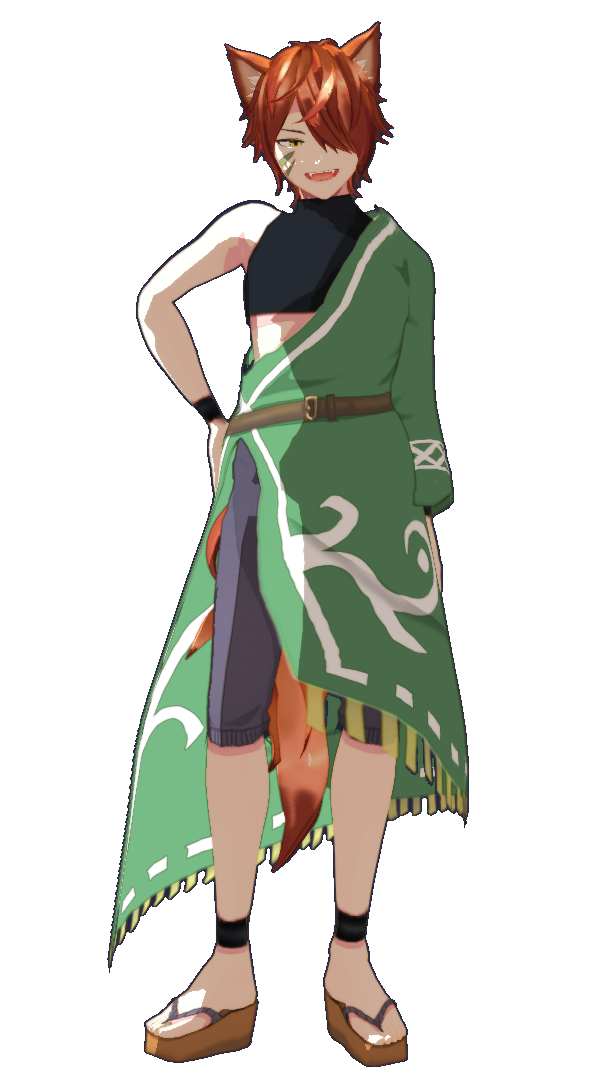
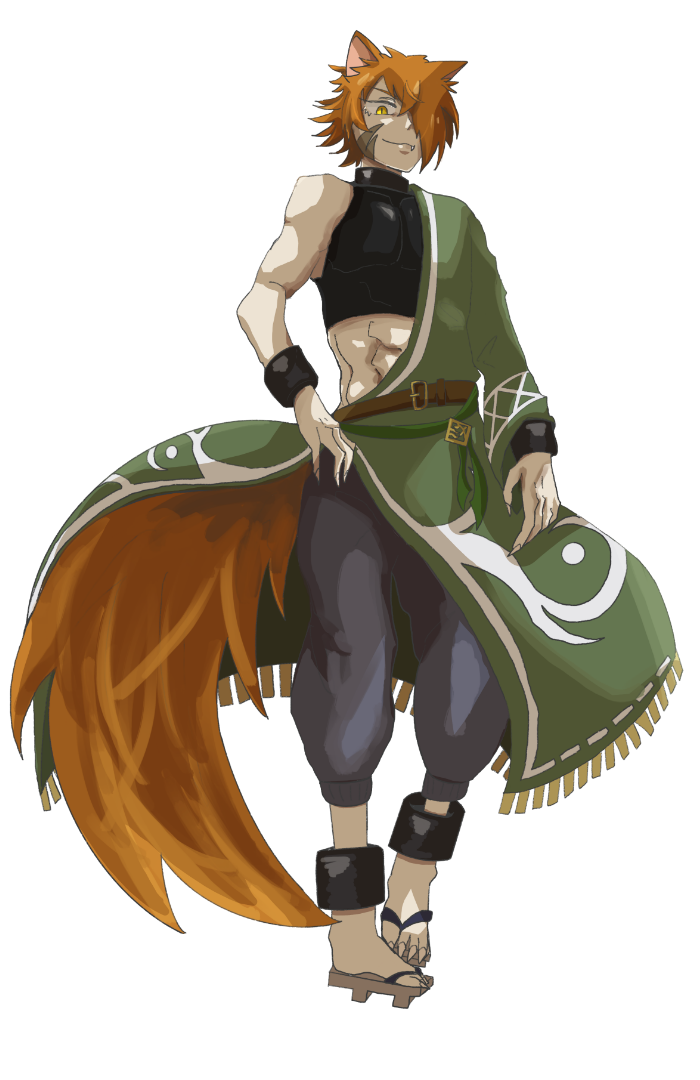
change character imgs

diff --git a/03_alf.md b/03_alf.md
@@ -4,11 +4,12 @@ title: ALF
 nav-menu: true
 show_tile: false
 image: character_thumbs/03_alf.png
-character-image: assets/images/alf_main.png
+character-2Dimage: assets/images/alf_main.png
+character-3Dimage: assets/images/alf_main2.png
 character-name: アルフレート = ツヴェルガー
 serifu: 「ルート、俺はお前を見捨てない。<br>　　　　　何があっても、絶対に…だ！」
-prof1: Alfred=Zwerger age:17 male
-prof2: ルートの双子の兄。明るくポジティブ。<br>獣人族である父の血を濃く引継ぎ、接近戦が得意。<br>ルートの呪いを解く方法を探すという建前で旅をしているが、<br>実は呪いを解く方法はないことを知っている。
+prof1: Alfred=Zwerger age:18 male
+prof2: ルートの兄。明るくポジティブ。<br>獣人族である父の血を濃く引継ぎ、接近戦が得意。<br>ルートの呪いを解く方法を探すという建前で旅をしているが、<br>実は呪いを解く方法はないことを知っている。
 mini-front: assets/images/alf_mini_front.JPG
 mini-back: assets/images/alf_mini_back.JPG
 ---
@@ -30,8 +31,12 @@ mini-back: assets/images/alf_mini_back.JPG
 			</div>
 
 			<div class="character">
-				<img src="{{ page.character-image }}" alt="" width="300" height="540" />
+				<img class="title-off" src="{{ page.character-2Dimage }}" width="300" height="540" />
+				<img class="title-on" src="{{ page.character-3Dimage }} " width="300" height="540"/>
+
 				<h3 class="serifu fade-in-bottom">{{ page.serifu }}</h3>
+
+				<button type="button" class="image-change-botton toggle button">2D⇔3D</button>
 			</div>
 
 		</div>

diff --git a/04_root.md b/04_root.md
@@ -4,11 +4,12 @@ title: ROOT
 nav-menu: true
 show_tile: false
 image: character_thumbs/04_root.png
-character-image: assets/images/root_main.png
+character-2Dimage: assets/images/root_main.png
+character-3Dimage: assets/images/root_main2.png
 character-name: ルートヴィヒ = ツヴェルガー
 serifu: 「俺は一人で大丈夫だ。<br>　　　兄さんがいなくてもうまくやるさ。」
 prof1: Ludwig=Zwerger age:17 male
-prof2: アルフの双子の弟。冷静沈着な性格。<br>魔女である母の血を濃く引継ぎ、魔法を扱うのが得意。<br>生まれつき呪いにかかっており、永久に死ぬことができない。<br>アルフと呪いを解く方法を探す旅をしている。
+prof2: アルフの弟。冷静沈着な性格。<br>魔女である母の血を濃く引継ぎ、魔法を扱うのが得意。<br>生まれつき呪いにかかっており、永久に死ぬことができない。<br>アルフと呪いを解く方法を探す旅をしている。
 mini-front: assets/images/root_mini_front.JPG
 mini-back: assets/images/root_mini_back.JPG
 ---
@@ -30,8 +31,12 @@ mini-back: assets/images/root_mini_back.JPG
 			</div>
 
 			<div class="character">
-				<img src="{{ page.character-image }}" width="300" height="540" />
+				<img class="title-off" src="{{ page.character-2Dimage }}" width="300" height="540" />
+				<img class="title-on" src="{{ page.character-3Dimage }} " width="300" height="540"/>
+
 				<h3 class="serifu fade-in-bottom">{{ page.serifu }}</h3>
+
+				<button type="button" class="image-change-botton toggle button">2D⇔3D</button>
 			</div>
 
 		</div>
